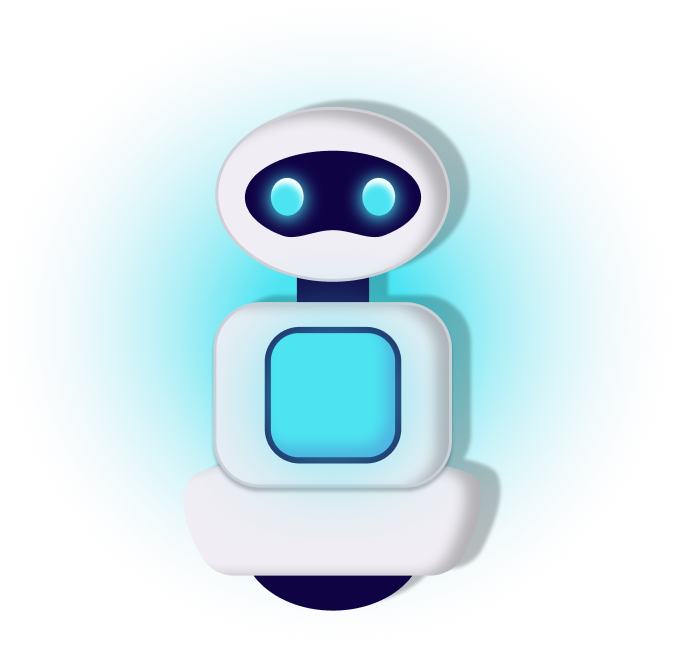
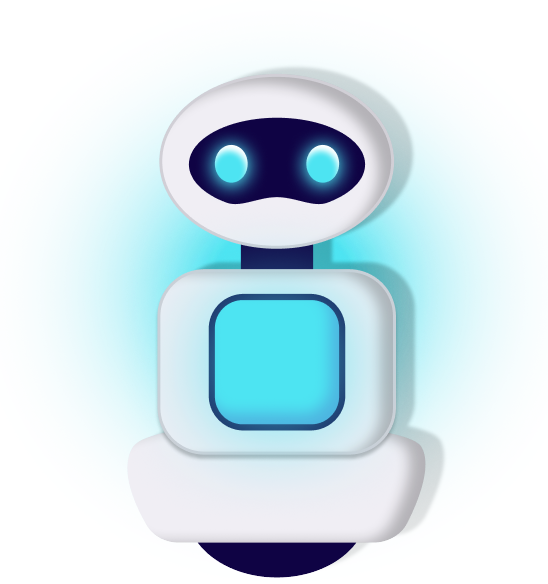
сделаны програмисты

Changed region(s): [[0.2792, 0.0925, 0.8066, 1.0]]

diff --git a/src/pages/FirstCorpus/Programmers/Programmers.tsx b/src/pages/FirstCorpus/Programmers/Programmers.tsx
@@ -1,24 +1,47 @@
-import classes from './Programmers.module.scss'
-import { Link } from 'react-router-dom';
-import React, { useState } from 'react';
-import Card from '../../../components/card/Card';
+import classes from './Programmers.module.scss';
+import React, { useCallback, useState } from 'react';
+import Card from '../../../components/Card/Card';
+
+const gameData: Record<string, { title: string; body: string }> = {
+  computerGame: {
+    title: 'ПЕНСИОННЫЙ ФОНД',
+    body: 'Описание для компьютерной игры.',
+  },
+  robotGame: {
+    title: 'Игра с роботами',
+    body: 'Описание для игры с роботами.',
+  },
+  spaceGame: {
+    title: 'Космическая игра',
+    body: 'Описание для космической игры.',
+  },
+};
 
 export const Programmers: React.FC = () => {
-  const [activeTask, setActiveTask] = useState<string | null>(null);
 
-  const handleCompClick = () => setActiveTask('compTask');
-  const handleRobotClick = () => setActiveTask('robotTask');
-  const handleCloseTask = () => setActiveTask(null);
+  const [openIsCard, setOpenIsCard] = useState(false);
+  const [currentGame, setGame] = useState<string>('')
+
+  const cardData = gameData[currentGame] || { title: '', body: '' };
+
+  const handleGameClick = (param: string) => {
+    setOpenIsCard(true);
+    setGame(param);
+  };
+
+  const closeCard = useCallback(() => {
+    setOpenIsCard(false);
+    setGame('');
+  }, []);
+  // const handleCloseTask = () => setOpenCard(null);
 
   return (
     <div className={classes.progs}>
         <div className={classes.container}>
-          <div className={classes.comp} onClick={handleCompClick}></div>
-          <div className={classes.robot} onClick={handleRobotClick}></div>
+          <div className={classes.comp} onClick={() => handleGameClick('computerGame')}></div>
+          <div className={classes.robot} onClick={() => handleGameClick('robotGame')}></div>
         </div>
-        {activeTask && (
-          <Card post={back:'handleCloseTask',title:'ПЕНСИОННЫЙ ФОНД', body:'В этой игре вы  почувствуете себя сотрудником пенсионного фонда. Перед вами будут предложены ситуации, вам необходимо принять верное решение и набрать как можно больше баллов!'}/>
-        )}
+        <div className={classes.card}><Card title={cardData.title} body={cardData.body} game={currentGame} isOpen={openIsCard} onClose={closeCard}/> </div>
     </div>
   );
 };

diff --git a/src/components/Card/Card.tsx b/src/components/Card/Card.tsx
@@ -1,0 +1,72 @@
+import classes from './Card.module.scss';
+import { Button } from '../Button/Button';
+import { Link } from 'react-router-dom';
+import { MutableRefObject, useCallback, useEffect, useRef, useState } from 'react';
+import lineImage from '../../assets/img/line.svg';
+
+
+interface CardProps {
+  title: string;
+  body: string;
+  onClose?: () => void;
+  isOpen?: boolean;
+  game: string;
+}
+
+const Card = (props: CardProps) => {
+
+  const {
+    title,
+    body,
+    game,
+    isOpen,
+    onClose,
+  } = props;
+
+  const ANIMATION_DELAY = 300;
+
+  const [isClose, setIsClose] = useState(false);
+  const [isMounted, setIsMounted] = useState(false);
+  const timerRef = useRef() as MutableRefObject<ReturnType<typeof setTimeout>>;
+
+  useEffect(() => {
+    if (isOpen) {
+      setIsMounted(true);
+      setIsClose(false);
+    }
+  }, [isOpen]);
+
+  const closeCard = useCallback(() => {
+
+    if (onClose){
+
+      setIsClose(true);
+      timerRef.current = setTimeout(() => {
+        onClose();
+        setIsClose(false);
+      }, ANIMATION_DELAY);
+    }
+  }, [onClose])
+
+  if (!isOpen && !isClose) {
+    return null;
+  }
+
+  return (
+    <div>
+        <div className={classes.var}>
+          <div className={classes.text}>
+            <h1> {title} </h1>
+            <div className={classes.img}><img src={lineImage} alt="" /></div>
+            <p> {body} </p>
+          </div>
+          <div className={classes.knopki}>
+            <Button onClick={closeCard} bgColor={'pink'} type={'type1v2'}>НАЗАД</Button>
+            <Link to={`/${game}`}> <Button bgColor={'blue'} type={'type1v2'}>ВПЕРЕД</Button></Link>
+          </div>
+        </div>
+    </div>
+  );
+};
+
+export default Card;

diff --git a/src/components/Card/Card.module.scss b/src/components/Card/Card.module.scss
@@ -1,0 +1,44 @@
+
+.var{
+  display: flex;
+  flex-direction: column;
+  align-items: center;
+  justify-content: space-between;
+  backdrop-filter: blur(70px);
+  //background-color: #2D2929;
+  background:  linear-gradient(to right, #4DE4F21A, #4DE4F205);
+  border-radius: 20px;
+  border: 1px solid #4DE4F2;
+  width: 622px;
+  height: 421px;
+}
+.var h1{
+  font-family:"AA Spaceman";
+  font-size: 32px;
+  color: #ffffff;
+  margin-top: 70px;
+  margin-left: 25px;
+  line-height: 25%;
+  margin-bottom: 0px;
+}
+.var p{
+  font-family: "Cruinn";
+  font-size: 20px;
+  font-weight: 500;
+  margin-top: 0px;
+  margin-bottom: 0px;
+  text-align: start;
+  margin-left: 25px;
+  color: #ffffff;
+}
+.var img{
+  margin-right: 20px;
+
+}
+.knopki{
+  width: 100%;
+  margin-bottom: 52px;
+  display: flex;
+  justify-content: space-around;
+  align-content: space-between;
+}

diff --git a/src/pages/FirstCorpus/Programmers/Programmers.module.scss b/src/pages/FirstCorpus/Programmers/Programmers.module.scss
@@ -8,10 +8,13 @@
   justify-content: flex-start;
   align-items: center;
 
-
+  .card{
+    position: absolute;
+    margin-top: 300px;
+  }
 
   .container{
-    width: 1000px;
+    width: 1500px;
     margin: 0;
     height: 973px;
     display: flex;
@@ -22,12 +25,12 @@
       background: url("../../../assets/img/games_marker/comp.svg");
       background-repeat: no-repeat;
       margin-top: 150px;
-      margin-left: 200px;
+      margin-left: 120px;
       width: 721px;
       height: 436px;
     }
     .robot{
-      background: url("../../../assets/img/games_marker/robot.png");
+      background: url("../../../assets/img/games_marker/robot2.png");
       background-repeat: no-repeat;
       margin-top: 200px;
       width: 677px;

diff --git a/src/components/Button/Button.module.scss b/src/components/Button/Button.module.scss
@@ -43,7 +43,7 @@
   }
 
   &.type1v2 {
-    height: 48px;
+    height: 50px;
     width: 200px;
     &.blue {
       background-image: url('../../assets/img/buttons/blue/type1v2/type1v2_blue.svg');
@@ -55,11 +55,11 @@
       }
     }
     &.pink {
-      background-image: url('../../assets/img/buttons/type1v2_pink.svg');
+      background-image: url('../../assets/img/buttons/pink/type1v2/type1v2_pink.svg');
       color: white;
 
       &:hover {
-        background-image: url('../../assets/img/buttons/type1v2_pink_hover.svg');
+        background-image: url('../../assets/img/buttons/pink/type1v2/type1v2_pink_hover.svg');
         color: var(--pink-color);
       }
     }

diff --git a/src/components/Button/Button.tsx b/src/components/Button/Button.tsx
@@ -11,7 +11,7 @@ interface ButtonProps {
   imageSrc?: string;
   width?: number;
   height?: number;
-  onClick?: string;
+  onClick?: () => void;
 }
 
 export const Button = memo((props: ButtonProps) => {
@@ -31,7 +31,7 @@ export const Button = memo((props: ButtonProps) => {
 
   return (
     <button
-      onClick={handleCloseTask}
+      onClick={onClick}
       className={classNames(
         classes.Button,
         { [classes.marker]: isMarker },

diff --git a/src/app/routes/index.tsx b/src/app/routes/index.tsx
@@ -14,4 +14,5 @@ export const router = createBrowserRouter([
   { path: '/3', element: <ThirdCorpus /> },
   { path: '/programmers', element: <Programmers /> },
   { path: '/logistics', element: <Logistics /> },
+  { path: '/robotGame', element:  <Logistics />,}
 ]);
